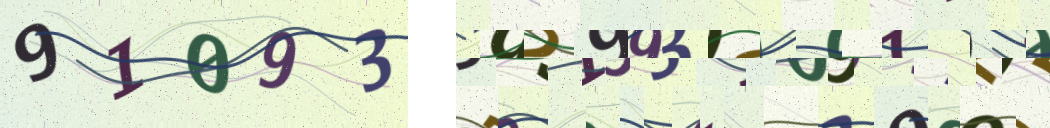
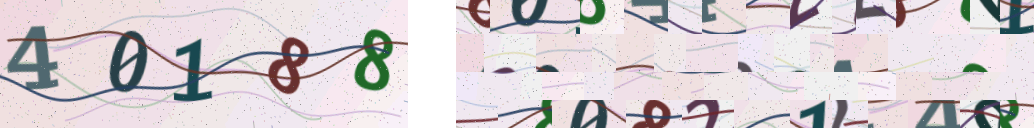
Relicense under 0BSD; English README and demo

diff --git a/examples/server/index.html b/examples/server/index.html
@@ -1,5 +1,5 @@
 <!doctype html>
-<html lang="ru">
+<html lang="en">
 <head>
   <meta charset="utf-8">
   <meta name="viewport" content="width=device-width, initial-scale=1">
@@ -40,8 +40,8 @@
           headers: { 'Content-Type': 'application/json' },
           body: JSON.stringify({ captcha_id: value.id, captcha_answer: value.answer }),
         });
-        setResult(res.ok ? 'Верно' : 'Неверно, новая картинка');
-        // Капча одноразовая: после любой попытки нужна новая
+        setResult(res.ok ? 'Correct' : 'Wrong, here is a new image');
+        // Captchas are single-use: fetch a new one after every attempt
         setReloadKey((k) => k + 1);
       }
 
@@ -50,9 +50,8 @@
           fetchChallenge: () => fetch('/api/captcha').then((r) => (r.ok ? r.json() : null)),
           onChange: setValue,
           reloadKey,
-          labels: { label: 'Код с картинки', placeholder: 'Введите {n} цифр', refresh: 'Другая картинка', loadError: 'Не удалось загрузить картинку' },
         }),
-        h('button', { type: 'submit', disabled: !value }, 'Проверить'),
+        h('button', { type: 'submit', disabled: !value }, 'Check'),
         h('div', { id: 'result' }, result),
       );
     }

diff --git a/examples/server/main.go b/examples/server/main.go
@@ -1,4 +1,4 @@
-// Пример: сервер капчи и демо-страница с React-компонентом.
+// Example: captcha server and a demo page with the React component.
 //
 //	npm install && npm run build
 //	go run ./examples/server

diff --git a/README.md b/README.md
@@ -1,46 +1,45 @@
 # strip-captcha
 
-Числовая капча для форм регистрации: Go-сервер рисует код и отдаёт картинку
-перемешанными плитками, React-компонент собирает её обратно через CSS.
+A numeric captcha for sign-up forms. The Go server draws the code, cuts the
+image into tiles and sends them shuffled. The React component puts the tiles
+back in order with CSS.
 
-![Собранная капча и сырой атлас](docs/preview.png)
+![Assembled captcha and the raw atlas](docs/preview.png)
 
-Слева — что видит человек. Справа — что лежит в PNG, если сохранить картинку
-или открыть её во вкладке Network: плитки вперемешку, а среди них куски
-картинки с другим кодом.
+Left: what the user sees. Right: the PNG the browser actually downloads.
 
-## Как это работает
+## How it works
 
-1. **Рендер.** Сервер генерирует код из `crypto/rand` и рисует каждую цифру
-   своим шрифтом, размером, поворотом, наклоном и растяжением. Поверх — тёмные
-   кривые толщиной со штрих цифры (мешают разрезать код на символы), затем
-   вся картинка изгибается волной, сверху ложится шум.
-2. **Нарезка.** Картинка режется «кирпичной кладкой»: 3–4 строки случайной
-   высоты, в каждой свои швы шириной 12–28 px, поэтому ни один шов не проходит
-   через всю картинку. Плитки перемешиваются внутри строк, строки — между
-   собой, и к ним подмешиваются плитки-приманки из картинки с другим кодом.
-3. **Сборка.** Клиент получает атлас и список плиток `[x, y, w, h, sx, sy]` и
-   ставит каждую плитку на место через `background-position`. Собранное
-   изображение существует только на экране.
-4. **Проверка.** Ответ хранится на сервере и проверяется только там.
-   Капча одноразовая (сгорает и после неверного ответа), ответ быстрее 2 с
-   отклоняется, выдача ограничена по клиенту; по желанию ответ принимается
-   только от того же клиента, которому выдана капча.
+1. **Rendering.** The code comes from `crypto/rand`. Each digit gets its own
+   font, size, rotation, shear and stretch. Two dark curves as thick as the
+   digit strokes cross the code, then the whole image is warped with sine
+   waves and sprinkled with noise.
+2. **Tiling.** The image is cut into 3–4 rows of random height, and each row
+   into tiles 12–28 px wide. Rows have different cut points, so no seam runs
+   through the whole image. Tiles are shuffled within rows, rows are shuffled,
+   and tiles from a second image with a different code are mixed in as decoys.
+3. **Assembly.** The client gets the atlas and a list of tiles
+   `[x, y, w, h, sx, sy]` and positions each one with `background-position`.
+   The assembled image only exists on screen.
+4. **Verification.** The answer is stored and checked on the server only. A
+   captcha can be used once, even if the answer was wrong. Answers faster than
+   2 s are rejected, and each client can request a limited number of captchas.
+   Optionally, the answer is accepted only from the client that requested it.
 
-### Что это даёт и чего не даёт
+### Limitations
 
-Список плиток лежит в том же ответе, так что бот, написанный специально под
-эту капчу, соберёт картинку сам — сборка отсекает универсальные решатели,
-которые берут «картинку капчи» и отправляют её в OCR или на ферму. Против
-целевой атаки работают искажения картинки, одноразовость, минимальное время
-ответа и лимиты. Это защита от массовых регистраций, а не от человека с
-бюджетом: если вас атакуют целенаправленно, ставьте рядом серверные сигналы
-(лимиты по IP и почте, проверку домена, поведенческие метки).
+The tile list comes in the same response as the atlas, so a bot written
+specifically for this captcha can reassemble the image. Tiling stops generic
+solvers that grab the captcha image and send it to OCR or a solving service.
+Against a targeted bot you have the distortions, single use, the minimum
+solve time and rate limits. That is enough to stop bulk sign-ups but will not
+stop a determined attacker; combine it with other server-side checks (IP and
+email rate limits, disposable domain filters).
 
-Капча визуальная: для незрячих пользователей нужен запасной путь
-(подтверждение по почте, вход через OAuth).
+The captcha is visual only. Give users who can't see it another way in, such
+as email confirmation or OAuth.
 
-## Сервер (Go)
+## Server (Go 1.22+)
 
 ```sh
 go get github.com/famfamfam/strip-captcha@latest
@@ -54,30 +53,31 @@ if err != nil {
 	log.Fatal(err)
 }
 
-// Выдача: JSON в формате, который ждёт компонент
+// Issues captchas as JSON in the format the component expects
 mux.Handle("GET /api/captcha", captcha.Handler(nil))
 
-// Проверка — в обработчике формы
+// In your form handler
 err = captcha.Verify(ctx, stripcaptcha.RemoteIP(r), req.CaptchaID, req.CaptchaAnswer)
 switch {
 case errors.Is(err, stripcaptcha.ErrInvalid):
-	// 400: неверный код — клиент должен запросить новую капчу
+	// 400: wrong, expired or reused; the client should fetch a new captcha
 case err != nil:
-	// 500: сбой хранилища, пользователь не виноват
+	// 500: store failure
 }
 ```
 
-Без `Handler` — вызывайте `captcha.Generate(ctx, clientKey)` сами и отдавайте
-`*Challenge` JSON-ом (`ErrRateLimited` → 429).
+You can skip `Handler`, call `captcha.Generate(ctx, clientKey)` yourself and
+send the returned `*Challenge` as JSON. `ErrRateLimited` maps to 429.
 
-**За прокси** передайте в `Handler` и `Verify` реальный IP клиента из
-доверенного заголовка: `RemoteIP` вернёт адрес прокси, и лимит станет общим на
-всех. Не берите `X-Forwarded-For` как есть — его подделывает сам клиент.
+**Behind a proxy**, pass the real client IP to `Handler` and `Verify`.
+`RemoteIP` returns the proxy address, which puts every client under one
+shared limit. Only read `X-Forwarded-For` if your proxy sets it, since
+clients can send it themselves.
 
-### Хранилище
+### Storage
 
-`NewMemoryStore()` — для одного процесса. Несколько экземпляров сервера —
-Redis 6.2+:
+`NewMemoryStore()` works for a single process. For several server instances
+use Redis 6.2+:
 
 ```go
 import "github.com/famfamfam/strip-captcha/redisstore"
@@ -86,94 +86,95 @@ store := redisstore.New(redis.NewClient(&redis.Options{Addr: "localhost:6379"}))
 captcha, err := stripcaptcha.New(store, stripcaptcha.Options{})
 ```
 
-Своё хранилище — реализуйте `Store` (`Save`, атомарный `Take`), и `Counter`
-(`Incr`), если нужен лимит выдач.
+For other backends, implement `Store` (`Save` and an atomic `Take`) and,
+for rate limiting, `Counter` (`Incr`).
 
-### Настройки
+### Options
 
-| Поле | По умолчанию | Что делает |
+| Field | Default | Description |
 |---|---|---|
-| `Width`, `Height` | 204×64 | Размер капчи на странице, CSS px |
-| `Length` | 5 | Цифр в коде, 3–10 |
-| `Scale` | 2 | Плотность пикселей PNG; 1 — вдвое легче картинка, но мыльно на ретине |
-| `TTL` | 10 мин | Сколько живёт капча |
-| `MinSolveTime` | 2 с | Ответ быстрее — бот; отрицательное значение выключает |
-| `RateLimit`, `RateWindow` | 30 за 10 мин | Выдач на клиента; отрицательный `RateLimit` выключает |
-| `BindClient` | false | Принимать ответ только от клиента, которому выдана капча. Мешает фермам, но мобильный клиент со сменившимся IP получит отказ |
-| `NoDecoys` | false | Не подмешивать приманки: атлас меньше, но в сыром PNG ровно цифры кода |
-| `KeyPrefix` | `captcha:` | Префикс ключей в хранилище |
+| `Width`, `Height` | 204×64 | Size on the page, CSS px |
+| `Length` | 5 | Number of digits, 3–10 |
+| `Scale` | 2 | Pixel density of the PNG. 1 halves the size but looks blurry on HiDPI screens |
+| `TTL` | 10 min | Captcha lifetime |
+| `MinSolveTime` | 2 s | Faster answers are rejected. Negative disables the check |
+| `RateLimit`, `RateWindow` | 30 per 10 min | Captchas per client. Negative `RateLimit` disables the limit |
+| `BindClient` | false | Accept the answer only from the client the captcha was issued to. Makes forwarding to solving services harder, but rejects mobile users whose IP changed |
+| `NoDecoys` | false | Don't mix decoy tiles into the atlas. Smaller image, but the raw PNG contains only the real digits |
+| `KeyPrefix` | `captcha:` | Key prefix in the store |
 
-## Клиент (React 18+)
+The image is about 35 KB with the defaults.
+
+## Client (React 18+)
 
 ```sh
-npm install github:famfamfam/strip-captcha#v0.1.1
+npm install github:famfamfam/strip-captcha#v0.1.2
 ```
 
-npm соберёт пакет сам при установке (скрипт `prepare`).
+npm builds the package on install (the `prepare` script).
 
 ```tsx
 import { StripCaptcha, type StripCaptchaValue } from 'strip-captcha';
-import 'strip-captcha/styles.css'; // необязательно
+import 'strip-captcha/styles.css'; // optional
 
-function RegisterForm() {
+function SignUpForm() {
   const [captcha, setCaptcha] = useState<StripCaptchaValue | null>(null);
   const [captchaEnabled, setCaptchaEnabled] = useState(true);
   const [reloadKey, setReloadKey] = useState(0);
 
   async function submit() {
-    const res = await api.register({ ...fields, captcha_id: captcha?.id, captcha_answer: captcha?.answer });
-    // Капча одноразовая: после отказа сервера нужна новая
+    const res = await api.signUp({ ...fields, captcha_id: captcha?.id, captcha_answer: captcha?.answer });
+    // Each captcha is single-use, so fetch a new one after a rejection
     if (!res.ok) setReloadKey((k) => k + 1);
   }
 
   return (
     <form onSubmit={submit}>
-      {/* ...поля... */}
+      {/* ...other fields... */}
       <StripCaptcha
         fetchChallenge={() => fetch('/api/captcha').then((r) => (r.ok ? r.json() : null))}
         onChange={setCaptcha}
         onAvailabilityChange={setCaptchaEnabled}
         reloadKey={reloadKey}
-        labels={{ label: t('Код с картинки'), placeholder: t('Введите {n} цифр') }}
       />
-      <button disabled={captchaEnabled && !captcha}>Зарегистрироваться</button>
+      <button disabled={captchaEnabled && !captcha}>Sign up</button>
     </form>
   );
 }
 ```
 
-`onChange` отдаёт `{ id, answer }`, когда введены все цифры, и `null` до
-этого. Ввод нормализуется: арабские, персидские и полноширинные цифры
-превращаются в ASCII, остальное отбрасывается. Капча обновляется сама
-незадолго до истечения.
+`onChange` receives `{ id, answer }` once all digits are entered and `null`
+otherwise. Arabic, Persian and full-width digits are converted to ASCII and
+everything else is dropped. The component fetches a new captcha shortly
+before the current one expires.
 
-Если капча у вас включается настройкой, сервер может ответить
-`{ "enabled": false }` — компонент ничего не покажет и вызовет
+If the captcha can be switched off in your settings, have the server respond
+with `{ "enabled": false }`. The component then renders nothing and calls
 `onAvailabilityChange(false)`.
 
-### Пропсы
+### Props
 
-| Проп | Что делает |
+| Prop | Description |
 |---|---|
-| `fetchChallenge` | `() => Promise<ответ сервера \| null>`; `null` или исключение — ошибка загрузки |
+| `fetchChallenge` | `() => Promise<response \| null>`. `null` or a rejected promise shows a load error |
 | `onChange` | `(value: { id, answer } \| null) => void` |
 | `onAvailabilityChange` | `(enabled: boolean) => void` |
-| `reloadKey` | Смените, чтобы запросить новую капчу |
-| `autoRefresh` | Обновлять перед истечением, по умолчанию `true` |
-| `labels` | `label`, `placeholder` (`{n}` — число цифр), `refresh`, `loadError`, `imageAlt` |
-| `classNames` | Классы для `root`, `label`, `row`, `image`, `status`, `refresh`, `input` — например, Tailwind |
-| `refreshIcon`, `loadingIndicator` | Свои иконки |
-| `inputProps` | Атрибуты поля ввода (`name`, `autoFocus`, …) |
+| `reloadKey` | Change it to fetch a new captcha |
+| `autoRefresh` | Refresh before expiry. Default `true` |
+| `labels` | `label`, `placeholder` (`{n}` is the digit count), `refresh`, `loadError`, `imageAlt` |
+| `classNames` | Extra classes for `root`, `label`, `row`, `image`, `status`, `refresh`, `input`, e.g. Tailwind |
+| `refreshIcon`, `loadingIndicator` | Custom icons |
+| `inputProps` | Extra input attributes (`name`, `autoFocus`, …) |
 
-Свой интерфейс — из частей: `useStripCaptcha({ fetchChallenge, reloadKey })`
-отдаёт `{ status, challenge, refresh }`, `<StripCaptchaImage challenge={...} />`
-рисует картинку.
+To build your own UI, use `useStripCaptcha({ fetchChallenge, reloadKey })`,
+which returns `{ status, challenge, refresh }`, and
+`<StripCaptchaImage challenge={...} />` for the image.
 
-Стили по умолчанию (`strip-captcha/styles.css`) настраиваются переменными
-`--strip-captcha-border`, `--strip-captcha-bg`, `--strip-captcha-focus` и др.
-на `.strip-captcha`.
+The default styles in `strip-captcha/styles.css` read CSS variables
+(`--strip-captcha-border`, `--strip-captcha-bg`, `--strip-captcha-focus` and
+others) that you can override on `.strip-captcha`.
 
-## Демо
+## Demo
 
 ```sh
 npm install && npm run build
@@ -181,14 +182,15 @@ go run ./examples/server
 # http://localhost:8080
 ```
 
-## Разработка
+## Development
 
 ```sh
 go test ./...
+STRIPCAPTCHA_REDIS=localhost:6379 go test ./redisstore
 npm test
-STRIPCAPTCHA_DUMP=/tmp/samples go test -run TestDumpSamples  # примеры картинок и атласов
+STRIPCAPTCHA_DUMP=/tmp/samples go test -run TestDumpSamples  # writes sample images and atlases
 ```
 
-## Лицензия
+## License
 
-MIT
+[0BSD](LICENSE). Use it for anything; attribution is not required.
